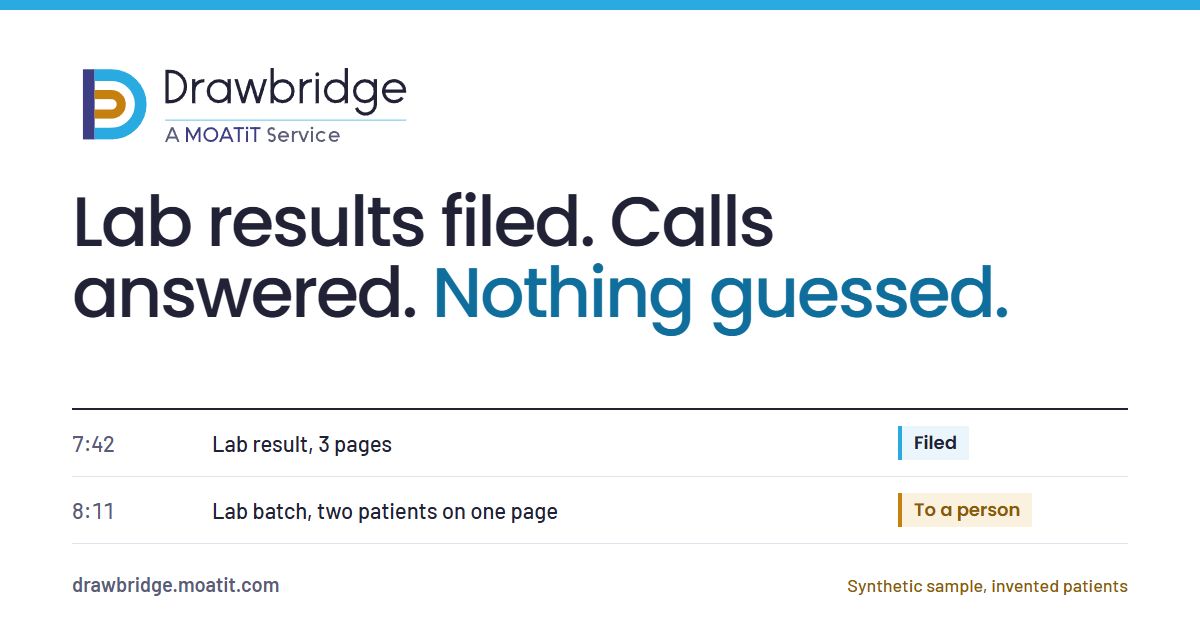
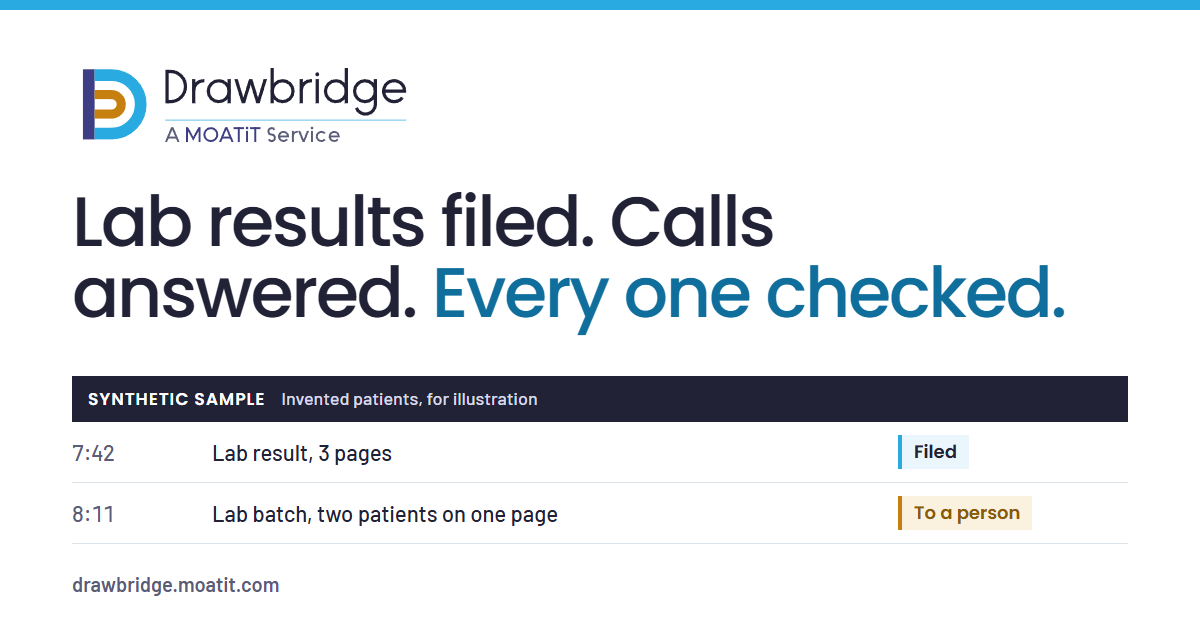
Positive framing across the site; clearer synthetic-sample label
Say what Drawbridge does instead of proving it by negation: "Every one
checked." replaces "Nothing guessed.", and guessing/"isn't sure"/"won't"
lines become close calls going to a person. Required disclosures stay.
The home intake ledger and the OG image now open with a full-width
"Synthetic sample" bar; the brand kit's voice rules record the principle.

Changed region(s): [[0.0617, 0.573, 0.9558, 0.8444], [0.37, 0.4222, 0.8942, 0.5429], [0.7092, 0.9048, 0.9558, 0.9651]]

diff --git a/src/assets/css/site.css b/src/assets/css/site.css
@@ -177,6 +177,9 @@ hr { border: 0; border-top: 1px solid var(--line); margin: 2rem 0; }
 
 /* the ledger: five synthetic faxes, two filed and three handed to a person */
 .ledger { margin-top: clamp(2.5rem, 6vw, 4.5rem); border-top: 1px solid var(--ink); }
+.ledger-sample { display: flex; flex-wrap: wrap; align-items: baseline; gap: 0.25rem 0.9rem; margin: 0; padding: 0.75rem 1rem; background: var(--ink); color: #fff; font-size: 0.95rem; line-height: 1.45; }
+.ledger-sample b { font: 600 0.9rem/1.3 var(--font-display); letter-spacing: 0.06em; text-transform: uppercase; }
+.ledger-sample span { color: #D9DAEA; }
 .ledger-head { display: flex; justify-content: space-between; align-items: baseline; gap: 0.4rem 1rem; padding: 1rem 0; flex-wrap: wrap; }
 .ledger-head h2 { font: 600 1.05rem/1.3 var(--font-display); letter-spacing: -0.01em; margin: 0; }
 .ledger-head p { font-size: 0.95rem; color: var(--slate); margin: 0; }

diff --git a/scripts/brand/make_icons.py b/scripts/brand/make_icons.py
@@ -32,21 +32,24 @@ body{border-top:10px solid #29AAE1;box-sizing:border-box;position:relative}
 .logo{position:absolute;left:72px;top:56px;height:78px}
 h1{position:absolute;left:72px;top:176px;width:1000px;margin:0;font:500 70px/1.02 Poppins,sans-serif;letter-spacing:-2.4px}
 h1 span{color:#0F6E9C}
-.rows{position:absolute;left:72px;right:72px;bottom:86px;border-top:2px solid #222236;font:500 22px/1 Barlow,sans-serif}
-.r{display:grid;grid-template-columns:120px 1fr 230px;align-items:center;gap:20px;padding:16px 0;border-bottom:1px solid #DCE3EA}
+.rows{position:absolute;left:72px;right:72px;bottom:86px;font:500 22px/1 Barlow,sans-serif}
+.sample{display:flex;gap:16px;align-items:baseline;background:#222236;color:#fff;padding:12px 16px;font:500 18px/1.2 Barlow,sans-serif}
+.sample b{font:600 17px/1 Poppins,sans-serif;letter-spacing:1px;text-transform:uppercase}
+.sample span{color:#D9DAEA}
+.r{display:grid;grid-template-columns:120px 1fr 230px;align-items:center;gap:20px;padding:13px 0;border-bottom:1px solid #DCE3EA}
 .r i{font-style:normal;color:#5A5C78;font-variant-numeric:tabular-nums}
 .r b{justify-self:start;font:600 18px/1 Poppins,sans-serif;padding:8px 12px;border-left:4px solid #29AAE1;background:#EAF6FC}
 .r b.p{border-color:#C68010;background:#FBF1DF;color:#8A5A0B}
 .u{position:absolute;left:72px;bottom:34px;font:600 20px Barlow,sans-serif;color:#5A5C78}
-.s{position:absolute;right:72px;bottom:34px;font:500 18px Barlow,sans-serif;color:#8A5A0B}
 </style></head><body>
 <img class="logo" src="%(brand)s/drawbridge-lockup.svg">
-<h1>Lab results filed. Calls answered. <span>Nothing guessed.</span></h1>
+<h1>Lab results filed. Calls answered. <span>Every one checked.</span></h1>
 <div class="rows">
+<div class="sample"><b>Synthetic sample</b><span>Invented patients, for illustration</span></div>
 <div class="r"><i>7:42</i><span>Lab result, 3 pages</span><b>Filed</b></div>
 <div class="r"><i>8:11</i><span>Lab batch, two patients on one page</span><b class="p">To a person</b></div>
 </div>
-<div class="u">drawbridge.moatit.com</div><div class="s">Synthetic sample, invented patients</div>
+<div class="u">drawbridge.moatit.com</div>
 </body></html>"""
 
 

diff --git a/brand/BRAND_KIT.md b/brand/BRAND_KIT.md
@@ -8,7 +8,7 @@ Preview page (local build): `/brand/` (noindex). Source files: `brand/logo/`. Ge
 
 ## 1. The idea
 
-MOATiT's name is a moat: the protection around a practice's systems. Drawbridge is the one **controlled crossing**: it comes down only for the right patient. That is the product's real behavior: two identifiers or the document doesn't cross, and callers are verified before anything is shared. Lines to use: *"Nothing guessed."*, *"AI reads the page. Rules you can audit decide where it goes."*, *"The drawbridge rules."*
+MOATiT's name is a moat: the protection around a practice's systems. Drawbridge is the one **controlled crossing**: it comes down only for the right patient. That is the product's real behavior: a document crosses on two matching identifiers, and callers are verified before anything is shared. Lines to use: *"Every one checked."*, *"AI reads the page. Rules you can audit decide where it goes."*, *"The drawbridge rules."*
 
 Ledger shows that behavior instead of illustrating it: a morning's synthetic faxes, the ones that filed and the ones that went to a person, each with the reason.
 
@@ -83,7 +83,8 @@ Both faces are MOATiT's own: Poppins from the MOATiT documents, Barlow from moat
 
 - Plain words, short sentences, the practice's vocabulary (charts, faxes, front desk), never "MCP", "FHIR", "Unity", "pipeline" or "agentic".
 - Honest by default: synthetic-test numbers are labeled "Synthetic test" with N, date and method; unfinished items say "in progress".
-- Safety before speed: always say what happens when Drawbridge isn't sure.
+- Safety before speed: always say what happens when a document needs a person.
+- Say what Drawbridge does, in positive terms. Don't prove a strength by negation ("nothing guessed", "never guesses", "won't release"). Keep required disclosures (no medical advice, synthetic test, not a guarantee) plain and factual.
 - No em dashes and none of these words in new copy: leverage, seamless, empower, unlock, robust, actionable, elevate, delve, solutions.
 - No invented testimonials, logos, awards or customer names. No client names at all until a client gives written permission.
 
